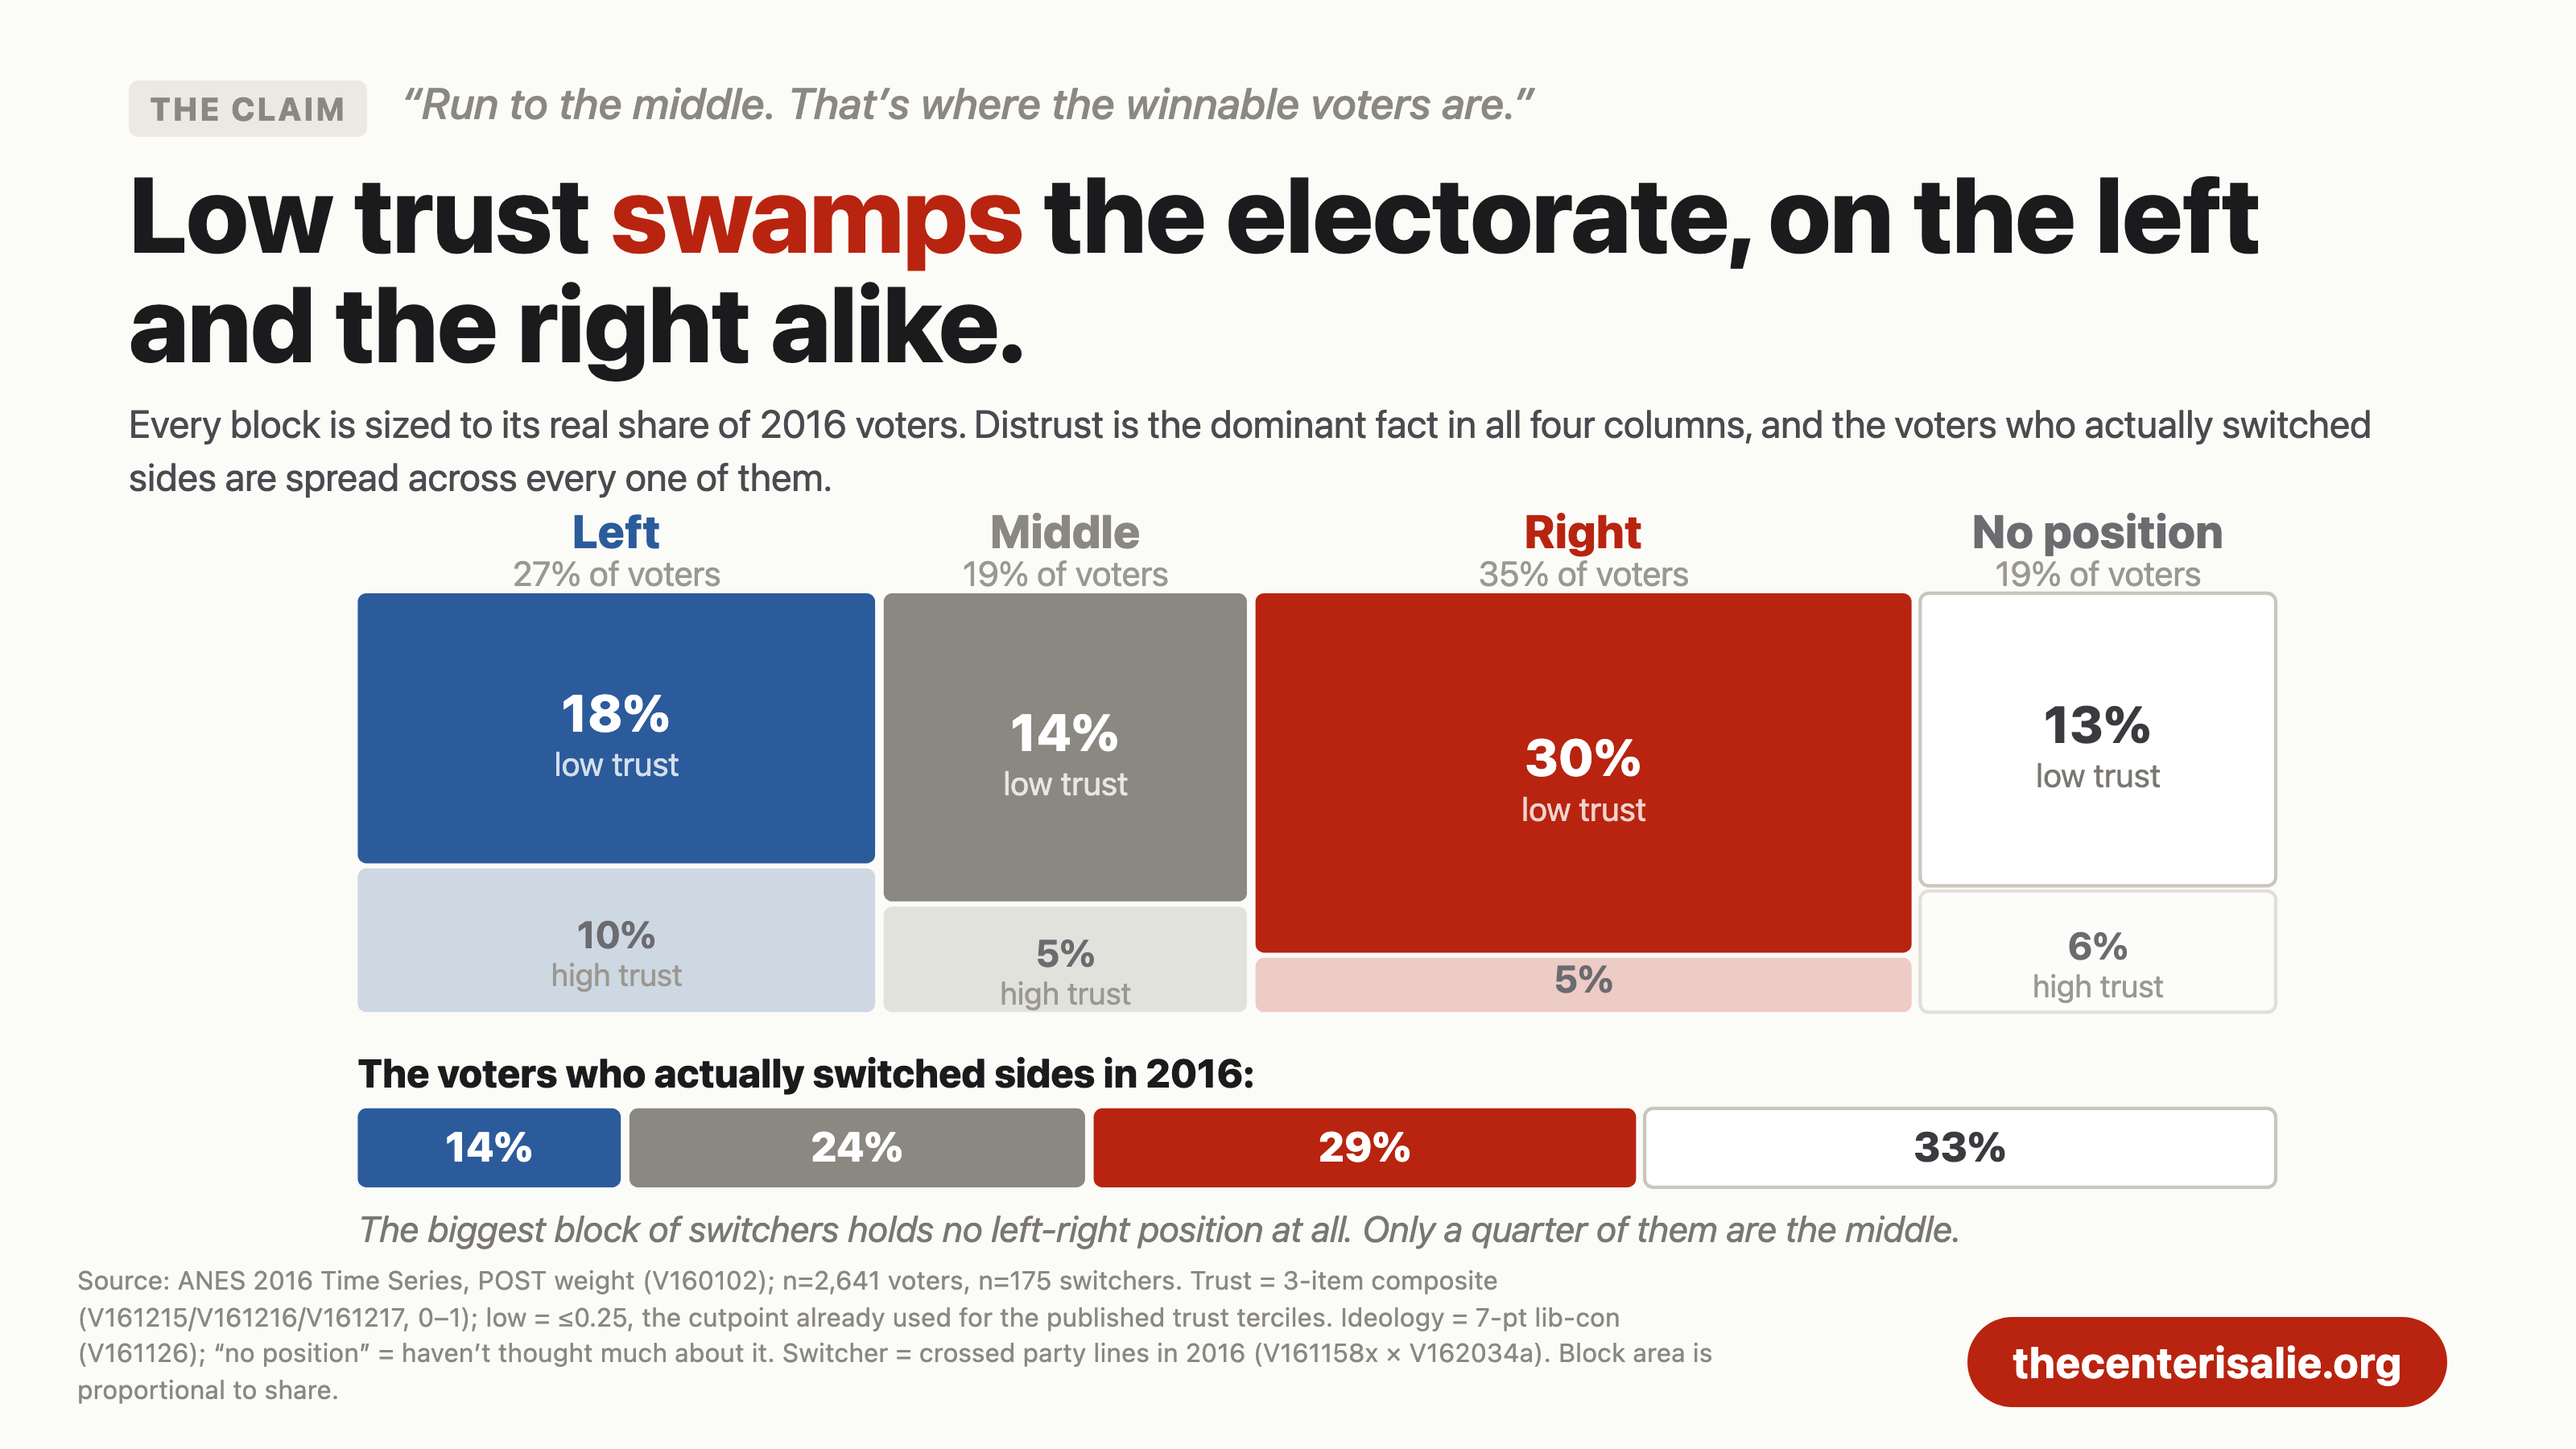
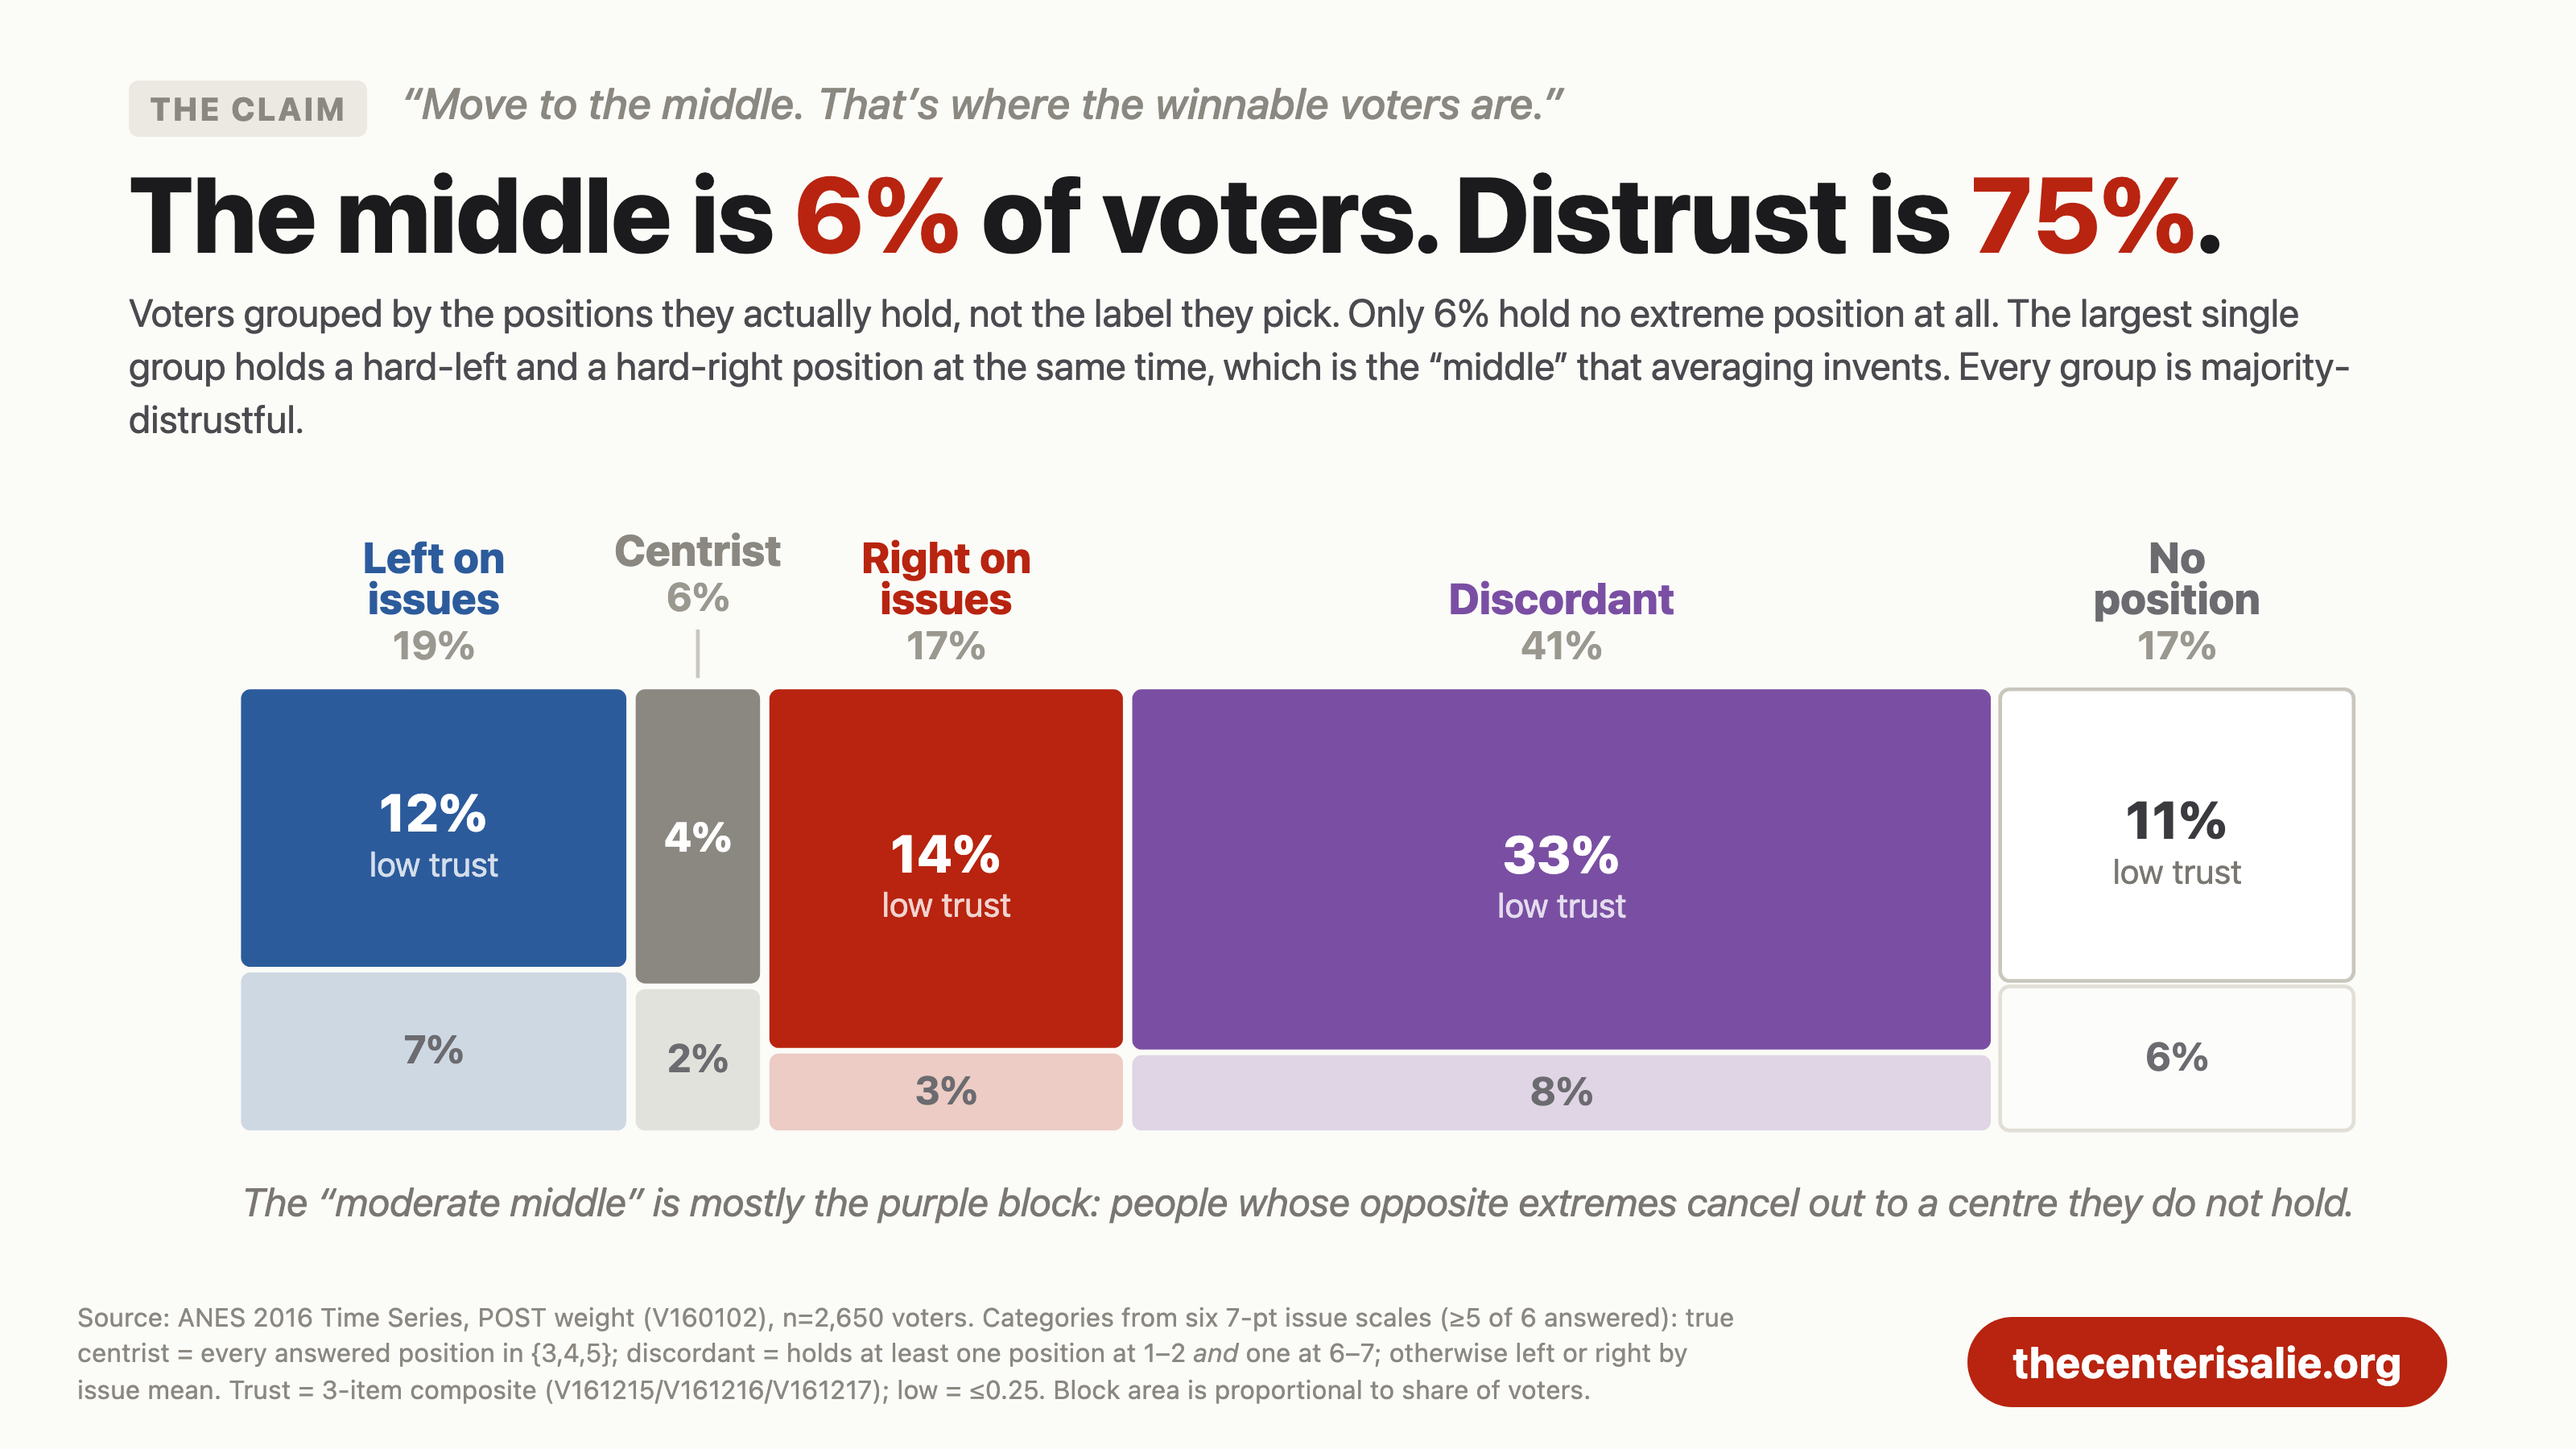
fix(og): thin insideoutside's middle to actual centrists, not self-labelled ones
The mosaic's "Middle" column was 7-pt self-placement, which is the exact label
the rest of the deck exists to debunk: the card was conceding the premise it
attacks. Voters are now grouped by the positions they actually hold, from the
six 7-pt issue scales.

  Left on issues   18.6%
  Discordant       40.9%   holds a hard-left AND a hard-right position
  True centrist     6.3%   holds no extreme position at all
  Right on issues  17.1%
  No position      17.1%

The middle thins from 19.3% (self-placed) to 6.3% (actual), and the single
largest group in the electorate is discordant, which is precisely the "moderate
middle" that averaging manufactures. Trust remains the vertical dimension, and
every column is still majority low-trust (63-82%).

Discordant uses purple, being the blend of the two extremes it holds.

diff --git a/web/og-cards/chart-insideoutside.html b/web/og-cards/chart-insideoutside.html
@@ -2,15 +2,15 @@
 <html lang="en"><head><meta charset="utf-8"><link rel="stylesheet" href="./chart-card.css"></head>
 <body>
   <div class="chartcard">
-    <div class="cc-claim"><span class="tag">The claim</span> &ldquo;Run to the middle. That&rsquo;s where the winnable voters are.&rdquo;</div>
-    <div class="cc-title">Low trust <span class="hl">swamps</span> the electorate, on the left and the right alike.</div>
-    <div class="cc-sub">Every block is sized to its real share of 2016 voters. Distrust is the dominant fact in all four columns, and the voters who actually switched sides are spread across every one of them.</div>
+    <div class="cc-claim"><span class="tag">The claim</span> &ldquo;Move to the middle. That&rsquo;s where the winnable voters are.&rdquo;</div>
+    <div class="cc-title">The middle is <span class="hl">6%</span> of voters. Distrust is <span class="hl">75%</span>.</div>
+    <div class="cc-sub">Voters grouped by the positions they actually hold, not the label they pick. Only 6% hold no extreme position at all. The largest single group holds a hard-left and a hard-right position at the same time, which is the &ldquo;middle&rdquo; that averaging invents. Every group is majority-distrustful.</div>
 
-    <div class="cc-chart"><svg id="mo" viewBox="0 0 1240 442" role="img"
-      aria-label="Mosaic of 2016 voters by ideology and trust. Left 27 percent of voters, 65 percent of them low trust. Middle 19 percent, 73 percent low trust. Right 35 percent, 86 percent low trust. No position 19 percent, 70 percent low trust. Below, the voters who switched sides split 14 percent left, 24 middle, 29 right, 33 no position."></svg></div>
+    <div class="cc-chart"><svg id="mo" viewBox="0 0 1240 396" role="img"
+      aria-label="2016 voters by actual issue positions and trust. Left on issues 19 percent, true centrist 6 percent, right on issues 17 percent, discordant 41 percent, no position 17 percent. Every group is between 63 and 82 percent low trust."></svg></div>
 
     <div class="cc-foot">
-      <div class="cc-source">Source: ANES 2016 Time Series, POST weight (V160102); n=2,641 voters, n=175 switchers. Trust = 3-item composite (V161215/V161216/V161217, 0&ndash;1); low = &le;0.25, the cutpoint already used for the published trust terciles. Ideology = 7-pt lib-con (V161126); &ldquo;no position&rdquo; = haven&rsquo;t thought much about it. Switcher = crossed party lines in 2016 (V161158x &times; V162034a). Block area is proportional to share.</div>
+      <div class="cc-source">Source: ANES 2016 Time Series, POST weight (V160102), n=2,650 voters. Categories from six 7-pt issue scales (&ge;5 of 6 answered): true centrist = every answered position in {3,4,5}; discordant = holds at least one position at 1&ndash;2 <em>and</em> one at 6&ndash;7; otherwise left or right by issue mean. Trust = 3-item composite (V161215/V161216/V161217); low = &le;0.25. Block area is proportional to share of voters.</div>
       <div class="cc-btn">thecenterisalie.org</div>
     </div>
   </div>
@@ -21,57 +21,51 @@
     const el = (t, a) => { const n = document.createElementNS(NS, t); for (const k in a) n.setAttribute(k, a[k]); return n; };
     const txt = (a, s) => { const t = el('text', a); t.textContent = s; svg.appendChild(t); return t; };
 
-    // Columns = ideology, width proportional to share of voters.
-    // Within a column, the vertical split is that column's own trust split,
-    // so every block's AREA is its true share of the electorate.
-    // Colour = ideology (left blue, right red, middle grey, no position blank).
-    // Trust = saturation: low trust solid, high trust faded back.
+    // Columns are ACTUAL issue positions, not self-placement. Width is share of
+    // voters; the split inside each column is that column's own trust split, so
+    // every block's area is its true share of the electorate.
     const cols = [
-      { name: 'Left',        col: 27.3, low: 17.6, high: 9.6, c: '#2c5b9c', swing: 14.1 },
-      { name: 'Middle',      col: 19.3, low: 14.2, high: 5.2, c: '#8a8880', swing: 24.1 },
-      { name: 'Right',       col: 34.5, low: 29.6, high: 4.9, c: '#b8240f', swing: 28.6 },
-      { name: 'No position', col: 18.9, low: 13.2, high: 5.7, c: '#ffffff', swing: 33.2 },
+      { name: ['Left on', 'issues'],  col: 18.6, low: 11.7, high: 6.9, c: '#2c5b9c' },
+      { name: ['Centrist'],           col: 6.3,  low: 4.2,  high: 2.1, c: '#8a8880', tight: true },
+      { name: ['Right on', 'issues'], col: 17.1, low: 13.9, high: 3.2, c: '#b8240f' },
+      { name: ['Discordant'],         col: 40.9, low: 33.4, high: 7.5, c: '#7a4fa3' },
+      { name: ['No', 'position'],     col: 17.1, low: 11.3, high: 5.7, c: '#ffffff' },
     ];
-    const X0 = 78, X1 = 1200, W = X1 - X0, PAD = 5;
-    const TOP = 52, H = 244;
+    const X0 = 60, X1 = 1195, W = X1 - X0, PAD = 5, TOP = 100, H = 236;
     const totCol = cols.reduce((a, c) => a + c.col, 0);
 
     let x = X0;
     cols.forEach((c) => {
       const cw = (c.col / totCol) * W - PAD;
       const lowH = (c.low / c.col) * H, highH = H - lowH;
-      const blank = c.c === '#ffffff';
+      const blank = c.c === '#ffffff', mid = x + cw / 2;
 
-      // column header
-      txt({ x: x + cw / 2, y: TOP - 26, 'text-anchor': 'middle', fill: blank ? '#6b6b70' : c.c, 'font-size': 27, 'font-weight': 800 }, c.name);
-      txt({ x: x + cw / 2, y: TOP - 4, 'text-anchor': 'middle', fill: '#9a988f', 'font-size': 20 }, c.col.toFixed(0) + '% of voters');
+      // header: narrow columns sit a row higher so nothing collides
+      const hy = c.tight ? TOP - 66 : TOP - 40;
+      c.name.forEach((ln, k) => txt({ x: mid, y: hy - (c.name.length - 1 - k) * 22, 'text-anchor': 'middle',
+        fill: blank ? '#6b6b70' : c.c, 'font-size': 23, 'font-weight': 800 }, ln));
+      txt({ x: mid, y: hy + 24, 'text-anchor': 'middle', fill: '#9a988f', 'font-size': 21, 'font-weight': 700 }, c.col.toFixed(0) + '%');
+      if (c.tight) svg.appendChild(el('line', { x1: mid, y1: hy + 34, x2: mid, y2: TOP - 6, stroke: '#c9c6bd', 'stroke-width': 2 }));
 
-      // low trust — solid, full weight
+      // low trust: solid
       svg.appendChild(el('rect', { x, y: TOP, width: cw, height: lowH, rx: 5, fill: c.c,
         stroke: blank ? '#c9c6bd' : 'none', 'stroke-width': blank ? 2 : 0 }));
-      txt({ x: x + cw / 2, y: TOP + lowH / 2 + 2, 'text-anchor': 'middle', fill: blank ? '#3a3a3f' : '#fff', 'font-size': 30, 'font-weight': 800 }, c.low.toFixed(0) + '%');
-      txt({ x: x + cw / 2, y: TOP + lowH / 2 + 28, 'text-anchor': 'middle', fill: blank ? '#7a7772' : '#ffffffcc', 'font-size': 19 }, 'low trust');
+      if (cw > 84) {
+        txt({ x: mid, y: TOP + lowH / 2 + 2, 'text-anchor': 'middle', fill: blank ? '#3a3a3f' : '#fff', 'font-size': 28, 'font-weight': 800 }, c.low.toFixed(0) + '%');
+        txt({ x: mid, y: TOP + lowH / 2 + 26, 'text-anchor': 'middle', fill: blank ? '#7a7772' : '#ffffffcc', 'font-size': 18 }, 'low trust');
+      } else {
+        txt({ x: mid, y: TOP + lowH / 2 + 8, 'text-anchor': 'middle', fill: '#fff', 'font-size': 22, 'font-weight': 800 }, c.low.toFixed(0) + '%');
+      }
 
-      // high trust — same hue, faded so the eye stays on the low band
+      // high trust: same hue, faded back
       svg.appendChild(el('rect', { x, y: TOP + lowH + 3, width: cw, height: highH - 3, rx: 5, fill: c.c,
         'fill-opacity': blank ? 0.35 : 0.22, stroke: blank ? '#e2dfd7' : 'none', 'stroke-width': blank ? 2 : 0 }));
-      txt({ x: x + cw / 2, y: TOP + lowH + highH / 2 + 6, 'text-anchor': 'middle', fill: '#6b6b70', 'font-size': 22, 'font-weight': 700 }, c.high.toFixed(0) + '%');
-      if (highH > 62) txt({ x: x + cw / 2, y: TOP + lowH + highH / 2 + 28, 'text-anchor': 'middle', fill: '#9a988f', 'font-size': 18 }, 'high trust');
+      txt({ x: mid, y: TOP + lowH + highH / 2 + 8, 'text-anchor': 'middle', fill: '#6b6b70', 'font-size': 21, 'font-weight': 700 }, c.high.toFixed(0) + '%');
 
       x += cw + PAD;
     });
 
-    // Where the switchers actually are — same colours, widths by their own split.
-    const SY = TOP + H + 56;
-    txt({ x: X0, y: SY - 12, 'text-anchor': 'start', fill: '#1b1b1d', 'font-size': 23, 'font-weight': 800 }, 'The voters who actually switched sides in 2016:');
-    let sx = X0;
-    cols.forEach((c) => {
-      const sw = (c.swing / 100) * W - PAD, blank = c.c === '#ffffff';
-      svg.appendChild(el('rect', { x: sx, y: SY, width: sw, height: 46, rx: 5, fill: c.c,
-        stroke: blank ? '#c9c6bd' : 'none', 'stroke-width': blank ? 2 : 0 }));
-      txt({ x: sx + sw / 2, y: SY + 31, 'text-anchor': 'middle', fill: blank ? '#3a3a3f' : '#fff', 'font-size': 24, 'font-weight': 800 }, c.swing.toFixed(0) + '%');
-      sx += sw + PAD;
-    });
-    txt({ x: X0, y: SY + 78, 'text-anchor': 'start', fill: '#7a7772', 'font-size': 21, 'font-style': 'italic' }, 'The biggest block of switchers holds no left-right position at all. Only a quarter of them are the middle.');
+    txt({ x: X0, y: TOP + H + 46, 'text-anchor': 'start', fill: '#7a7772', 'font-size': 21, 'font-style': 'italic' },
+      'The “moderate middle” is mostly the purple block: people whose opposite extremes cancel out to a centre they do not hold.');
   </script>
 </body></html>
